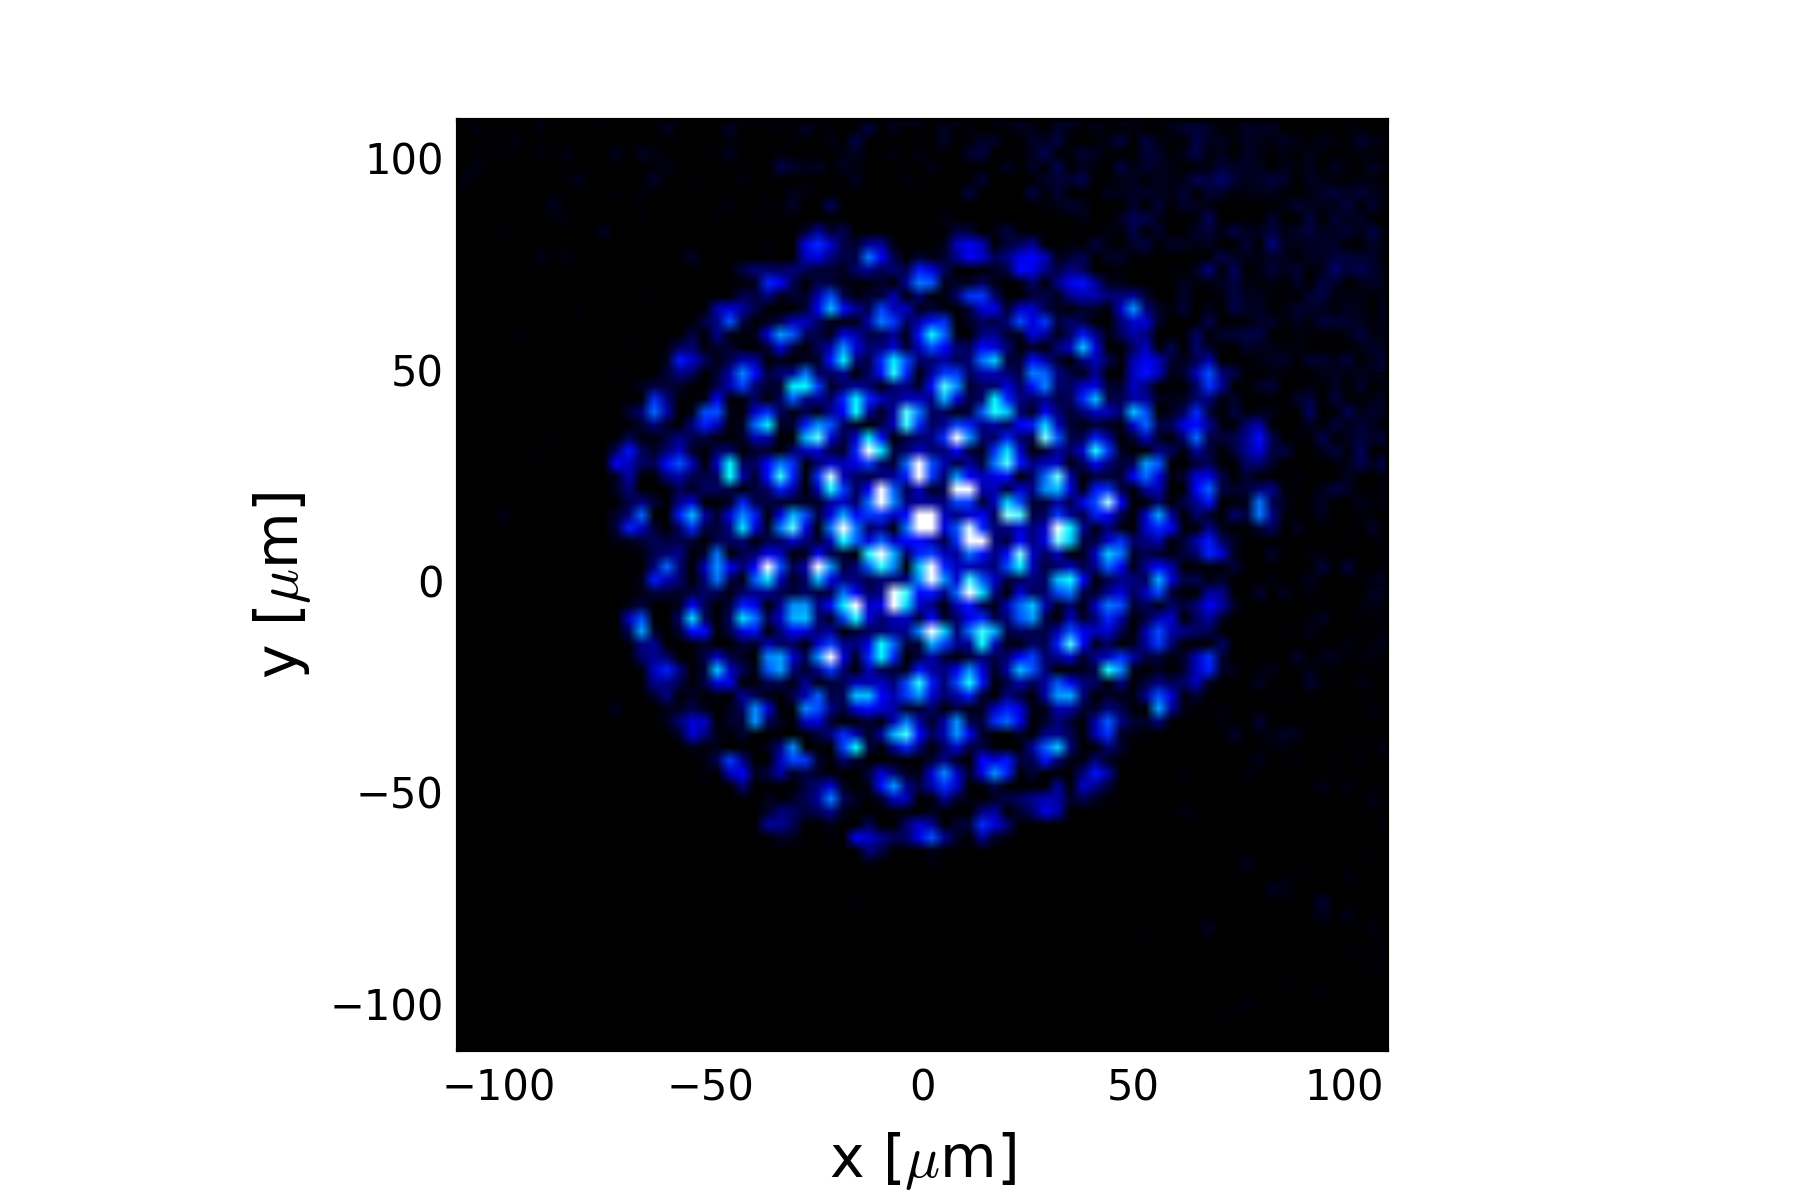
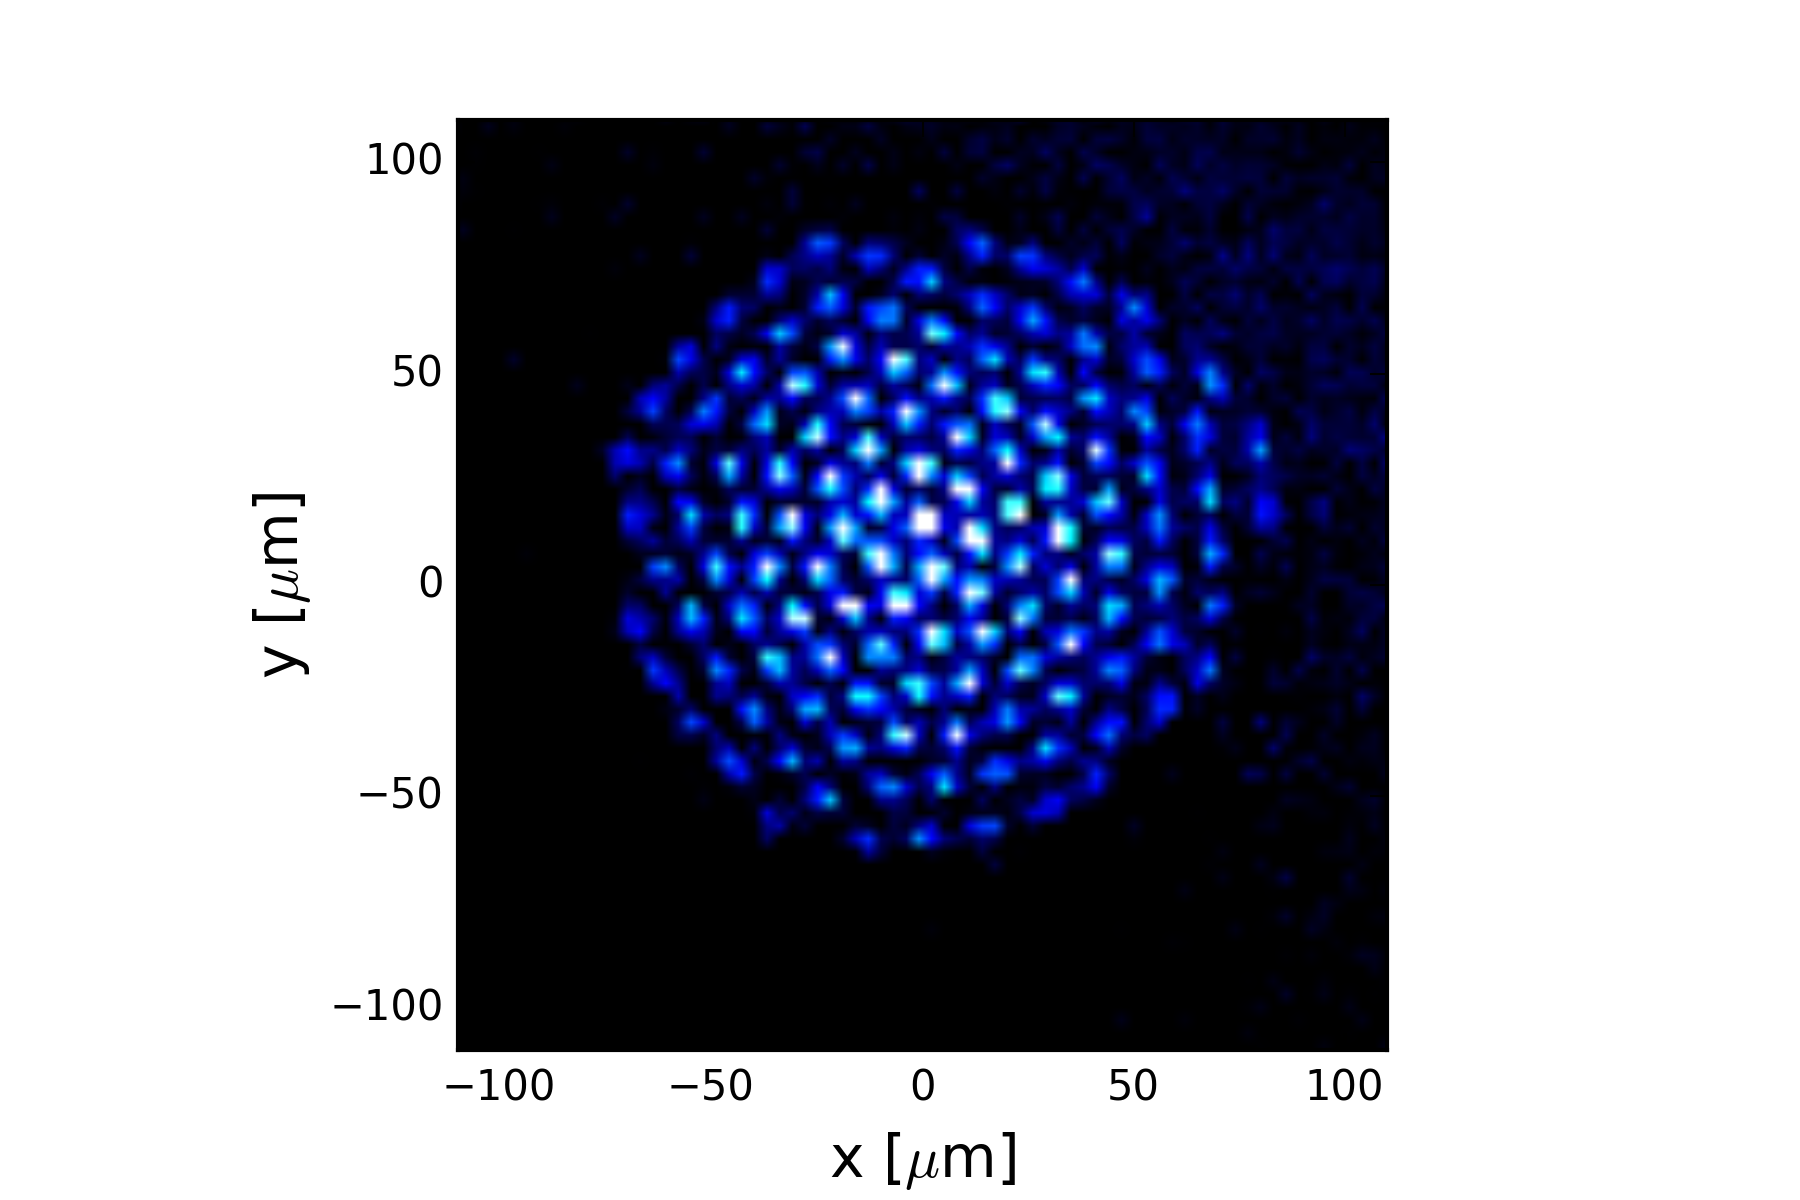
create the quantar image analysis for paper

Changed region(s): [[0.3111, 0.0925, 0.7778, 0.74]]

diff --git a/paper_figs/penning_squeeze/ion images/quantar_2_09_5ions.py b/paper_figs/penning_squeeze/ion images/quantar_2_09_5ions.py
@@ -14,24 +14,26 @@ import quantar_image
 importlib.reload(quantar_image)
 
 #%%
-name = "10_14_124ions.png"
-x0 = 49.0
-y0 = -13.5
+name = "2_09_5ions.png"
+name = False
+x0 = -20.5
+y0 = -32.5
 num_img = 20
-num_bck_img = 70
-wrot = 187e3
-data_num = 1080
-bck_num = 1200
+num_bck_img = 0
+wrot = 53e3
+data_num = 500
+bck_num = 530
 
+intensity_range = [0,0.00003]
 intensity_range = 'auto'
-intensity_range = [0,0.000055]
+intensity_range = [1e-5,5e-5]
 
 color_map = 'auto'
 color_map = quantar_image.bluehot_cmap
 
 
 base_path = os.getcwd()
-fdir = os.path.normpath("/Users/jgb/Data/20151014/image")
+fdir = os.path.normpath("/Volumes/688/Public/penning_britton/dailyLabBookFiles/2015/20150209/QuadWall_5brightIonCrystal_53kHz")
 
 qi = quantar_image.QuantarImage(x0=x0,y0=y0,fwall=wrot)
 
@@ -45,13 +47,11 @@ if color_map == 'auto':
     img = qi.make_fig_image(xytr, bck=xytr_bg, gfilter=0.2, im_range=quantar_image.im_extent(110),
                         int_range=intensity_range)
 else:
-    img = qi.make_fig_image(xytr, bck=xytr_bg, gfilter=0.2, im_range=quantar_image.im_extent(110),
-                        int_range=intensity_range, cmap=color_map, save_name=name)
-    img = qi.make_fig_image(xytr, bck=xytr_bg, gfilter=0.2, im_range=quantar_image.im_extent(110),
-                        int_range=intensity_range, cmap=color_map, fig_axis=False, save_name="noaxis_"+name)
+    img = qi.make_fig_image(xytr, gfilter=0.2, im_range=quantar_image.im_extent(110),
+                        int_range=intensity_range, cmap=color_map, fig_axis=False, save_name=name)
 
 coord = qi.get_ion_positions(img, extent=[90,160,90,160], min_distance=1.5,
-                             threshold_rel=0.14)
+                             threshold_rel=0.3)
                              
 print("File for creation: "+str(fdir))
 print("x0: {}, y0: {}, File#: {}, # of files: {}".format(x0,y0,data_num,num_img))

diff --git a/paper_figs/penning_squeeze/ion images/quantar_7_30_61ions.py b/paper_figs/penning_squeeze/ion images/quantar_7_30_61ions.py
@@ -14,24 +14,25 @@ import quantar_image
 importlib.reload(quantar_image)
 
 #%%
-name = "10_14_124ions.png"
-x0 = 49.0
-y0 = -13.5
-num_img = 20
-num_bck_img = 70
-wrot = 187e3
-data_num = 1080
-bck_num = 1200
+name = "7_30_61ions.png"
+name = False
+x0 = 50.0
+y0 = -9.25
+num_img = 40
+num_bck_img = 120
+wrot = 191e3
+data_num = 5620
+bck_num = 5275
 
+intensity_range = [0,0.00003]
 intensity_range = 'auto'
-intensity_range = [0,0.000055]
 
 color_map = 'auto'
 color_map = quantar_image.bluehot_cmap
 
 
 base_path = os.getcwd()
-fdir = os.path.normpath("/Users/jgb/Data/20151014/image")
+fdir = os.path.normpath("/Volumes/688/Public/penning_britton/dailyLabBookFiles/2015/20150730/pic_load301_191kHzRotation")
 
 qi = quantar_image.QuantarImage(x0=x0,y0=y0,fwall=wrot)
 
@@ -46,12 +47,10 @@ if color_map == 'auto':
                         int_range=intensity_range)
 else:
     img = qi.make_fig_image(xytr, bck=xytr_bg, gfilter=0.2, im_range=quantar_image.im_extent(110),
-                        int_range=intensity_range, cmap=color_map, save_name=name)
-    img = qi.make_fig_image(xytr, bck=xytr_bg, gfilter=0.2, im_range=quantar_image.im_extent(110),
-                        int_range=intensity_range, cmap=color_map, fig_axis=False, save_name="noaxis_"+name)
+                        int_range=intensity_range, cmap=color_map, fig_axis=False, save_name=name)
 
 coord = qi.get_ion_positions(img, extent=[90,160,90,160], min_distance=1.5,
-                             threshold_rel=0.14)
+                             threshold_rel=0.3)
                              
 print("File for creation: "+str(fdir))
 print("x0: {}, y0: {}, File#: {}, # of files: {}".format(x0,y0,data_num,num_img))

diff --git a/paper_figs/penning_squeeze/ion images/quantar_8_11_27ions.py b/paper_figs/penning_squeeze/ion images/quantar_8_11_27ions.py
@@ -14,24 +14,25 @@ import quantar_image
 importlib.reload(quantar_image)
 
 #%%
-name = "10_14_124ions.png"
-x0 = 49.0
-y0 = -13.5
-num_img = 20
-num_bck_img = 70
-wrot = 187e3
-data_num = 1080
-bck_num = 1200
+name = "8_11_27ions.png"
+#name = False
+x0 = 55.0
+y0 = -9.0
+num_img = 12
+num_bck_img = 50
+wrot = 189e3
+data_num = 628
+bck_num = 530
 
+intensity_range = [0,0.00003]
 intensity_range = 'auto'
-intensity_range = [0,0.000055]
 
 color_map = 'auto'
 color_map = quantar_image.bluehot_cmap
 
 
 base_path = os.getcwd()
-fdir = os.path.normpath("/Users/jgb/Data/20151014/image")
+fdir = os.path.normpath("/Volumes/688/Public/penning_britton/dailyLabBookFiles/2015/20150811/Load306_image2_189kHz")
 
 qi = quantar_image.QuantarImage(x0=x0,y0=y0,fwall=wrot)
 
@@ -46,12 +47,10 @@ if color_map == 'auto':
                         int_range=intensity_range)
 else:
     img = qi.make_fig_image(xytr, bck=xytr_bg, gfilter=0.2, im_range=quantar_image.im_extent(110),
-                        int_range=intensity_range, cmap=color_map, save_name=name)
-    img = qi.make_fig_image(xytr, bck=xytr_bg, gfilter=0.2, im_range=quantar_image.im_extent(110),
-                        int_range=intensity_range, cmap=color_map, fig_axis=False, save_name="noaxis_"+name)
+                        int_range=intensity_range, cmap=color_map, fig_axis=False, save_name=name)
 
 coord = qi.get_ion_positions(img, extent=[90,160,90,160], min_distance=1.5,
-                             threshold_rel=0.14)
+                             threshold_rel=0.3)
                              
 print("File for creation: "+str(fdir))
 print("x0: {}, y0: {}, File#: {}, # of files: {}".format(x0,y0,data_num,num_img))

diff --git a/paper_figs/penning_squeeze/ion images/quantar_5_14_91ions.py b/paper_figs/penning_squeeze/ion images/quantar_5_14_91ions.py
@@ -14,24 +14,25 @@ import quantar_image
 importlib.reload(quantar_image)
 
 #%%
-name = "10_14_124ions.png"
-x0 = 49.0
-y0 = -13.5
-num_img = 20
-num_bck_img = 70
-wrot = 187e3
-data_num = 1080
-bck_num = 1200
+name = "5_14_91ions.png"
+name = False
+x0 = -6.5
+y0 = -14.75
+num_img = 40
+num_bck_img = 125
+wrot = 190e3
+data_num = 1570
+bck_num = 690
 
+intensity_range = [0,0.00003]
 intensity_range = 'auto'
-intensity_range = [0,0.000055]
 
 color_map = 'auto'
 color_map = quantar_image.bluehot_cmap
 
 
 base_path = os.getcwd()
-fdir = os.path.normpath("/Users/jgb/Data/20151014/image")
+fdir = os.path.normpath("/Volumes/688/Public/penning_britton/dailyLabBookFiles/2015/20150514/QuantarImages/190kHz")
 
 qi = quantar_image.QuantarImage(x0=x0,y0=y0,fwall=wrot)
 
@@ -46,9 +47,7 @@ if color_map == 'auto':
                         int_range=intensity_range)
 else:
     img = qi.make_fig_image(xytr, bck=xytr_bg, gfilter=0.2, im_range=quantar_image.im_extent(110),
-                        int_range=intensity_range, cmap=color_map, save_name=name)
-    img = qi.make_fig_image(xytr, bck=xytr_bg, gfilter=0.2, im_range=quantar_image.im_extent(110),
-                        int_range=intensity_range, cmap=color_map, fig_axis=False, save_name="noaxis_"+name)
+                        int_range=intensity_range, cmap=color_map, fig_axis=False, save_name=name)
 
 coord = qi.get_ion_positions(img, extent=[90,160,90,160], min_distance=1.5,
                              threshold_rel=0.14)

diff --git a/analysis/quantar_image.py b/analysis/quantar_image.py
@@ -274,7 +274,7 @@ class QuantarImage:
         
         if int_range is 'auto':    
             RotFrame = plt.imshow(counts_filter,extent=extent, cmap=cmap,
-                              vmin = 0.0, vmax = np.max(counts_filter))
+                              vmin = 0.0, vmax = np.max(counts_filter)*0.7)
         else:
             RotFrame = plt.imshow(counts_filter,extent=extent, cmap=cmap,
                               vmin = int_range[0], vmax = int_range[1])
